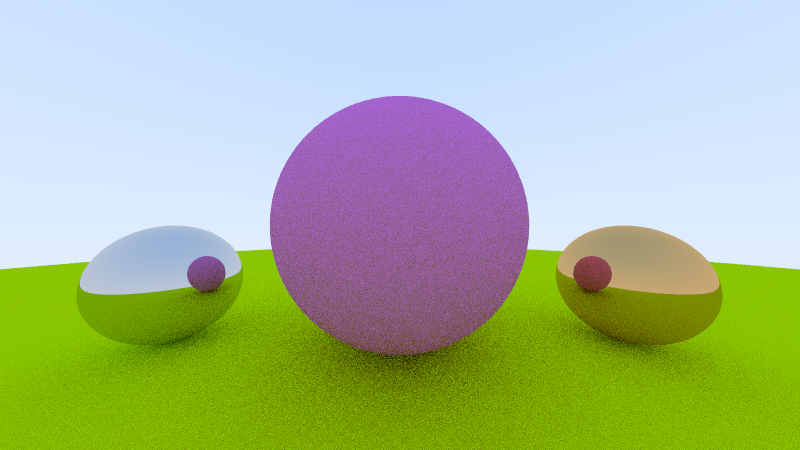
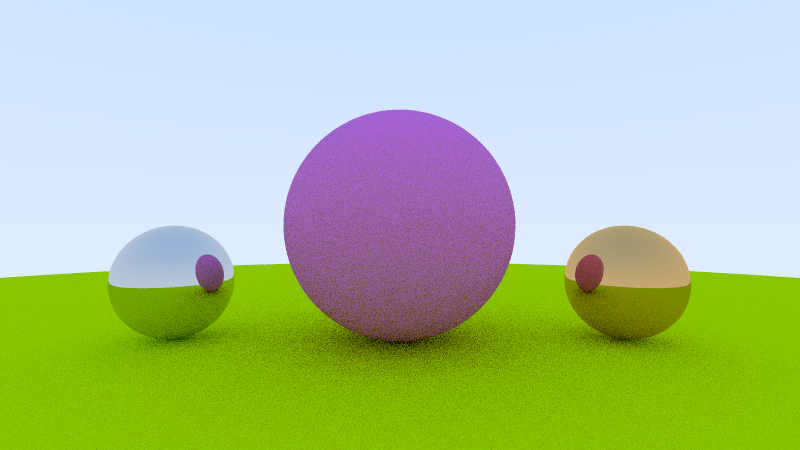
Pull camera back and zoom in, update current image.

Changed region(s): [[0.0, 0.1867, 1.0, 1.0], [0.9375, 0.9956, 0.9688, 1.0], [0.875, 0.9956, 0.9062, 1.0]]

diff --git a/src/camera.h b/src/camera.h
@@ -14,9 +14,9 @@ class Camera {
         {
             float vpHeight = 2.0f;
             float vpWidth = aspectRatio * vpHeight;
-            float focalLength = 1.0f;
+            float focalLength = 2.0f;
             
-            origin = Point3(0.0f, 0.0f, 0.0f);
+            origin = Point3(0.0f, 0.0f, 1.0f);
             horizontal = Vec3(vpWidth, 0.0f, 0.0f);
             vertical = Vec3(0.0f, vpHeight, 0.0f);
             lowerLeftCorner = origin - horizontal / 2 - vertical / 2 - Vec3(0.0f, 0.0f, focalLength);
